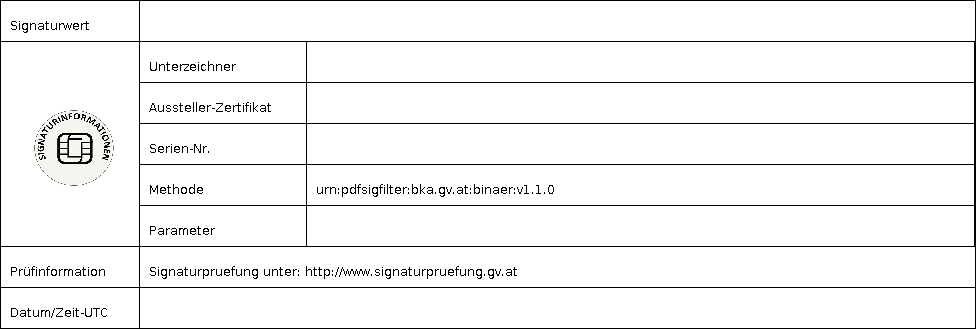
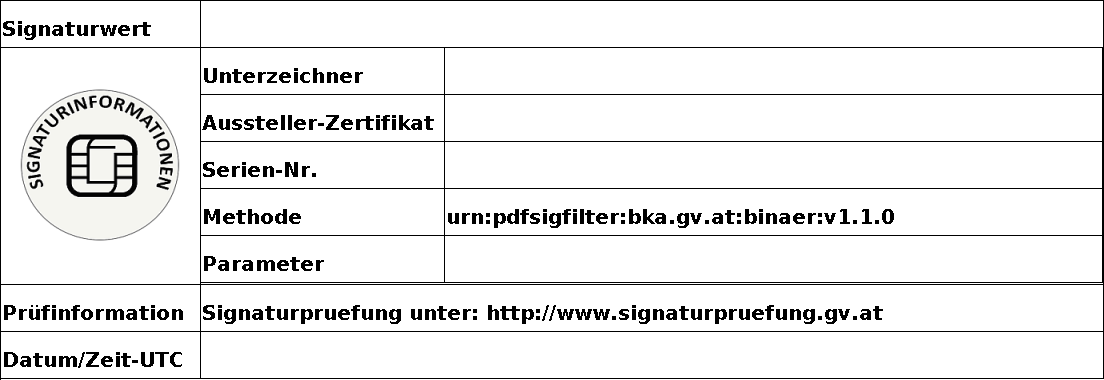
+ increased size of singature block to fit handy signature parameter in one line (with adapted fallback image)
git-svn-id: https://joinup.ec.europa.eu/svn/pdf-over/trunk@216 174cde9d-5d70-4d2a-aa98-46368bc2aaf7

diff --git a/pdf-over-signer/pdf-over-sigpdfas/src/main/java/at/asit/pdfover/signer/pdfas/PdfAsSignatureParameter.java b/pdf-over-signer/pdf-over-sigpdfas/src/main/java/at/asit/pdfover/signer/pdfas/PdfAsSignatureParameter.java
@@ -75,12 +75,12 @@ public class PdfAsSignatureParameter extends SignatureParameter {
 			if (position.getPage() < 1) {
 				positioning = new SignaturePositioning(String.format(
 						(Locale) null,
-						"p:new;x:%f;y:%f;w:262",  position.getX(),
+						"p:new;x:%f;y:%f;w:276",  position.getX(),
 						position.getY()));
 			} else {
 				positioning = new SignaturePositioning(String.format(
 						(Locale) null,
-						"p:%d;x:%f;y:%f;w:262", position.getPage(), position.getX(),
+						"p:%d;x:%f;y:%f;w:276", position.getPage(), position.getX(),
 						position.getY()));
 			}
 		} else {
@@ -114,7 +114,7 @@ public class PdfAsSignatureParameter extends SignatureParameter {
 	public SignatureDimension getPlaceholderDimension() {
 		// return new SignatureDimension(487, 206);
 
-		return new SignatureDimension(262, 88);
+		return new SignatureDimension(276, 95);
 	}
 
 	/*
@@ -168,7 +168,7 @@ public class PdfAsSignatureParameter extends SignatureParameter {
 
 			g.dispose();
 
-			// save(image, "png");
+			//save(image, "png");
 
 			return image;
 		} catch (Exception ex) {

diff --git a/pdf-over-gui/src/main/java/at/asit/pdfover/gui/workflow/states/PositioningState.java b/pdf-over-gui/src/main/java/at/asit/pdfover/gui/workflow/states/PositioningState.java
@@ -19,7 +19,6 @@ package at.asit.pdfover.gui.workflow.states;
 import java.io.IOException;
 
 import org.eclipse.swt.SWT;
-import org.eclipse.swt.widgets.Display;
 import org.slf4j.Logger;
 import org.slf4j.LoggerFactory;
 
